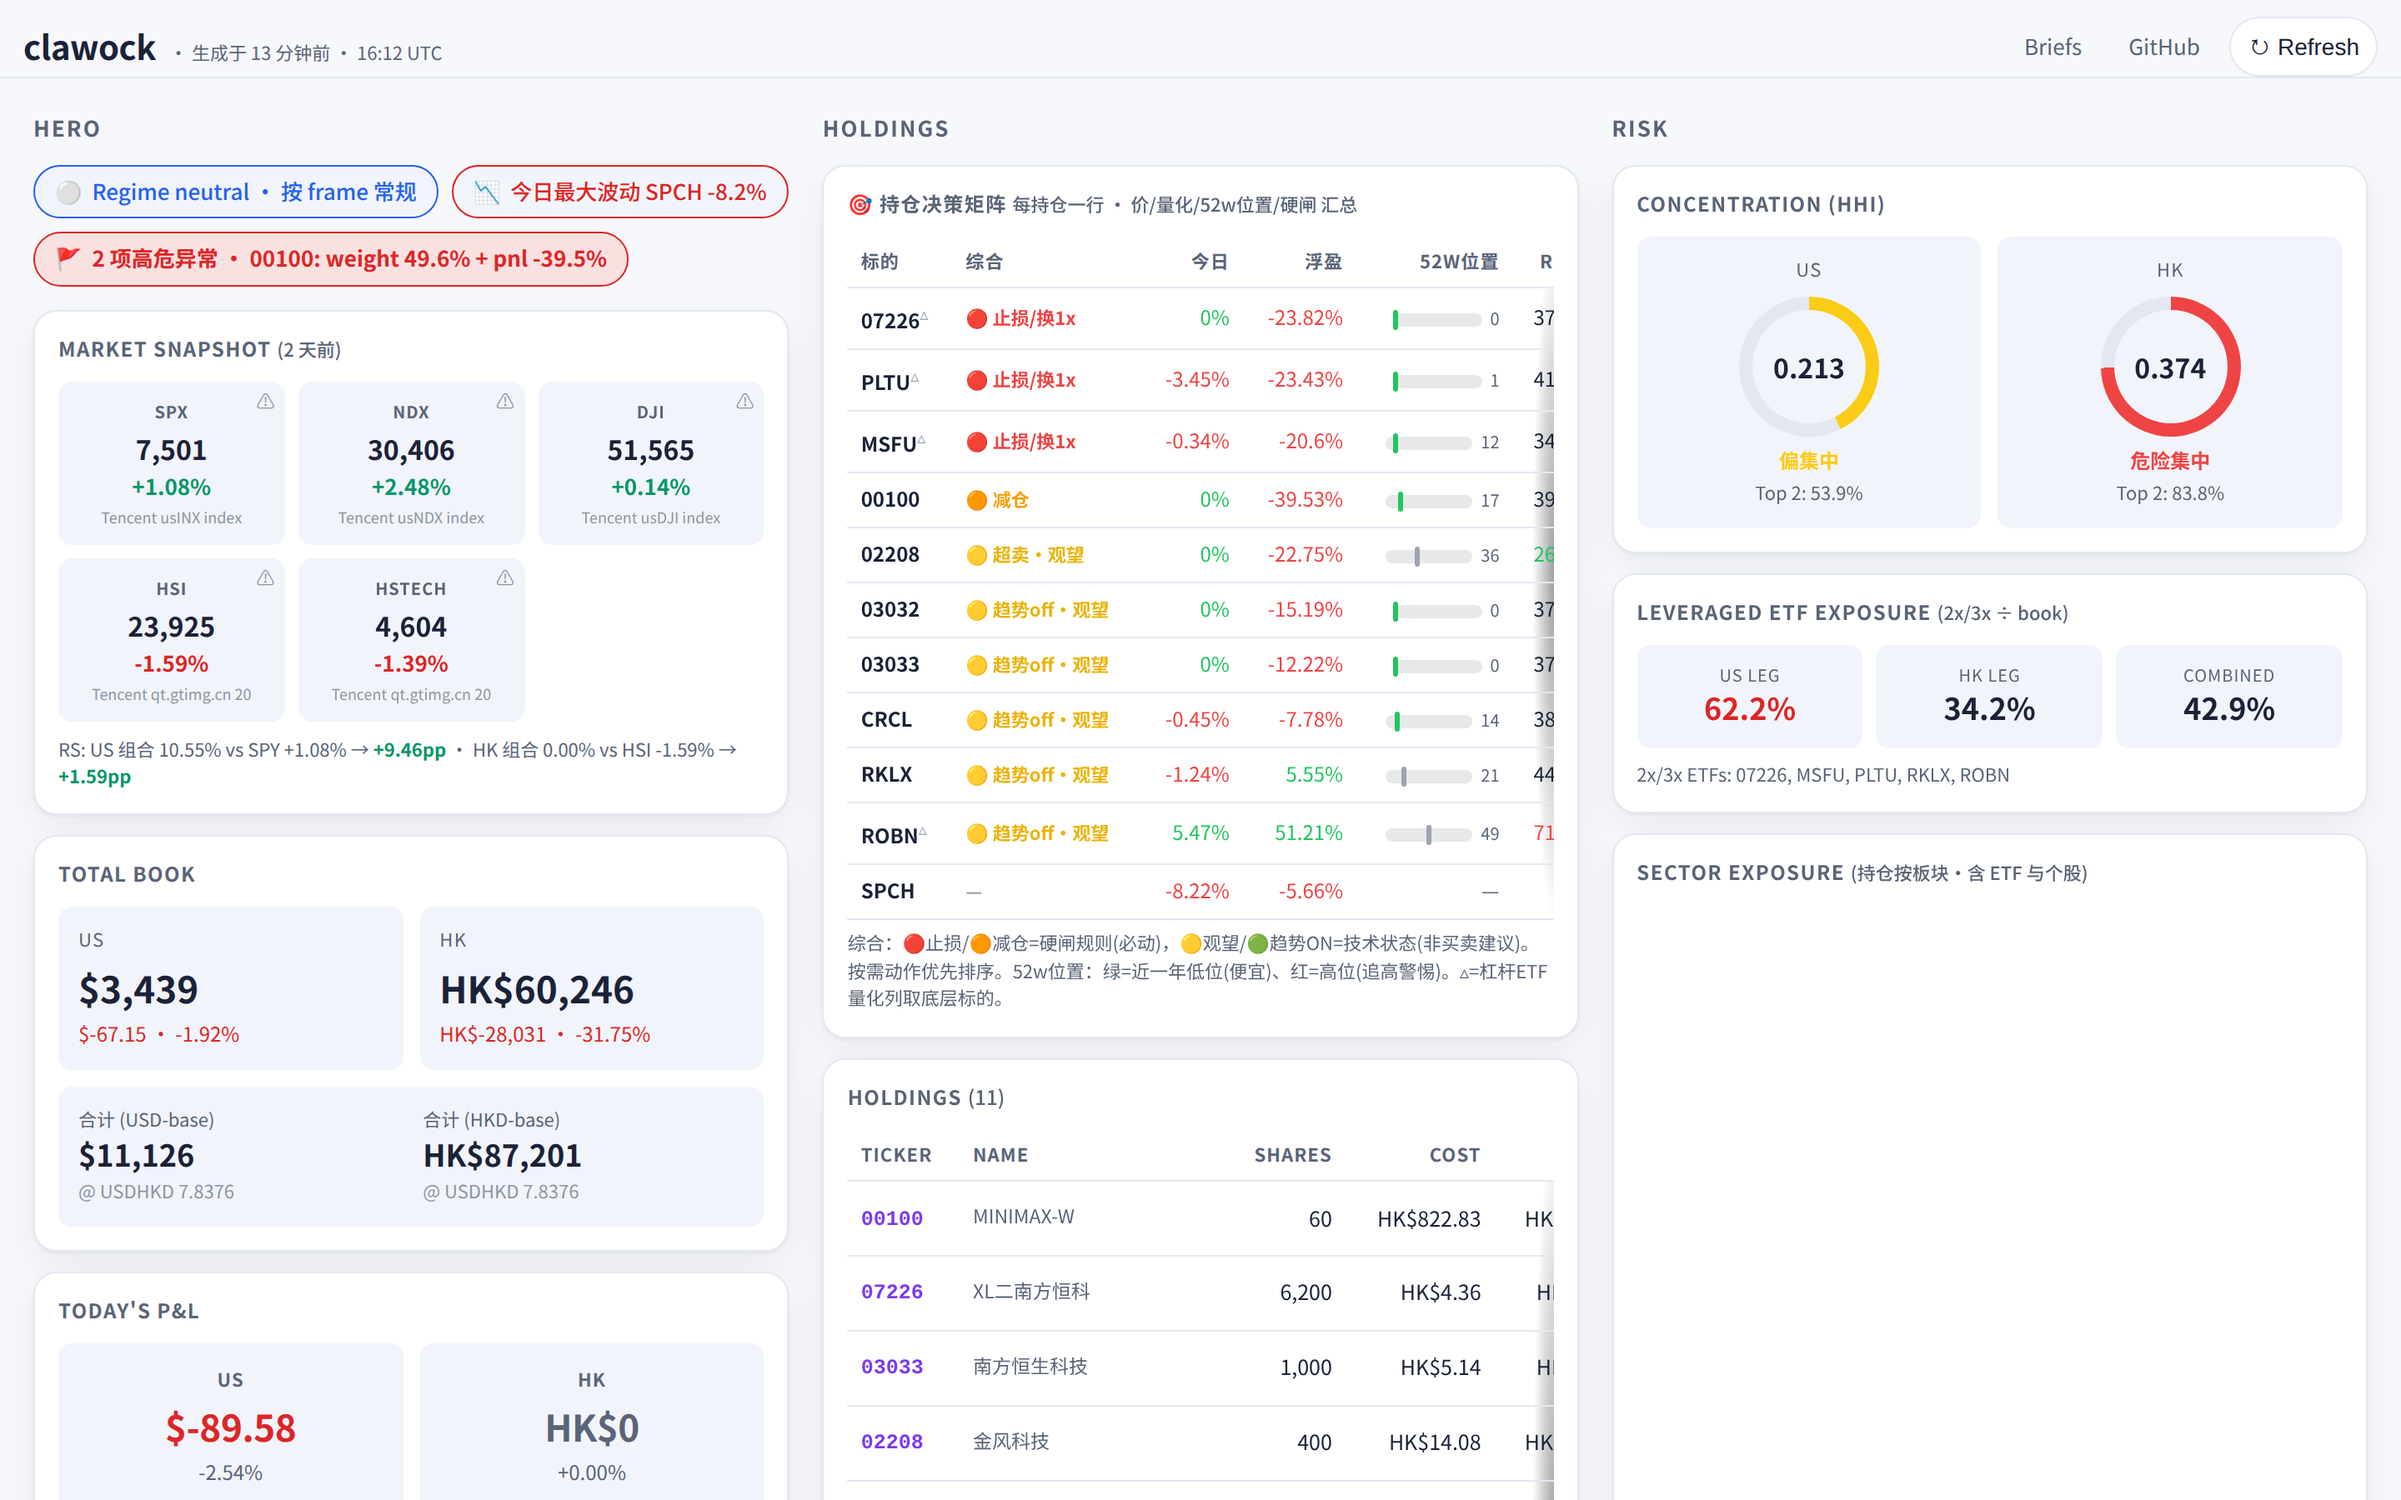
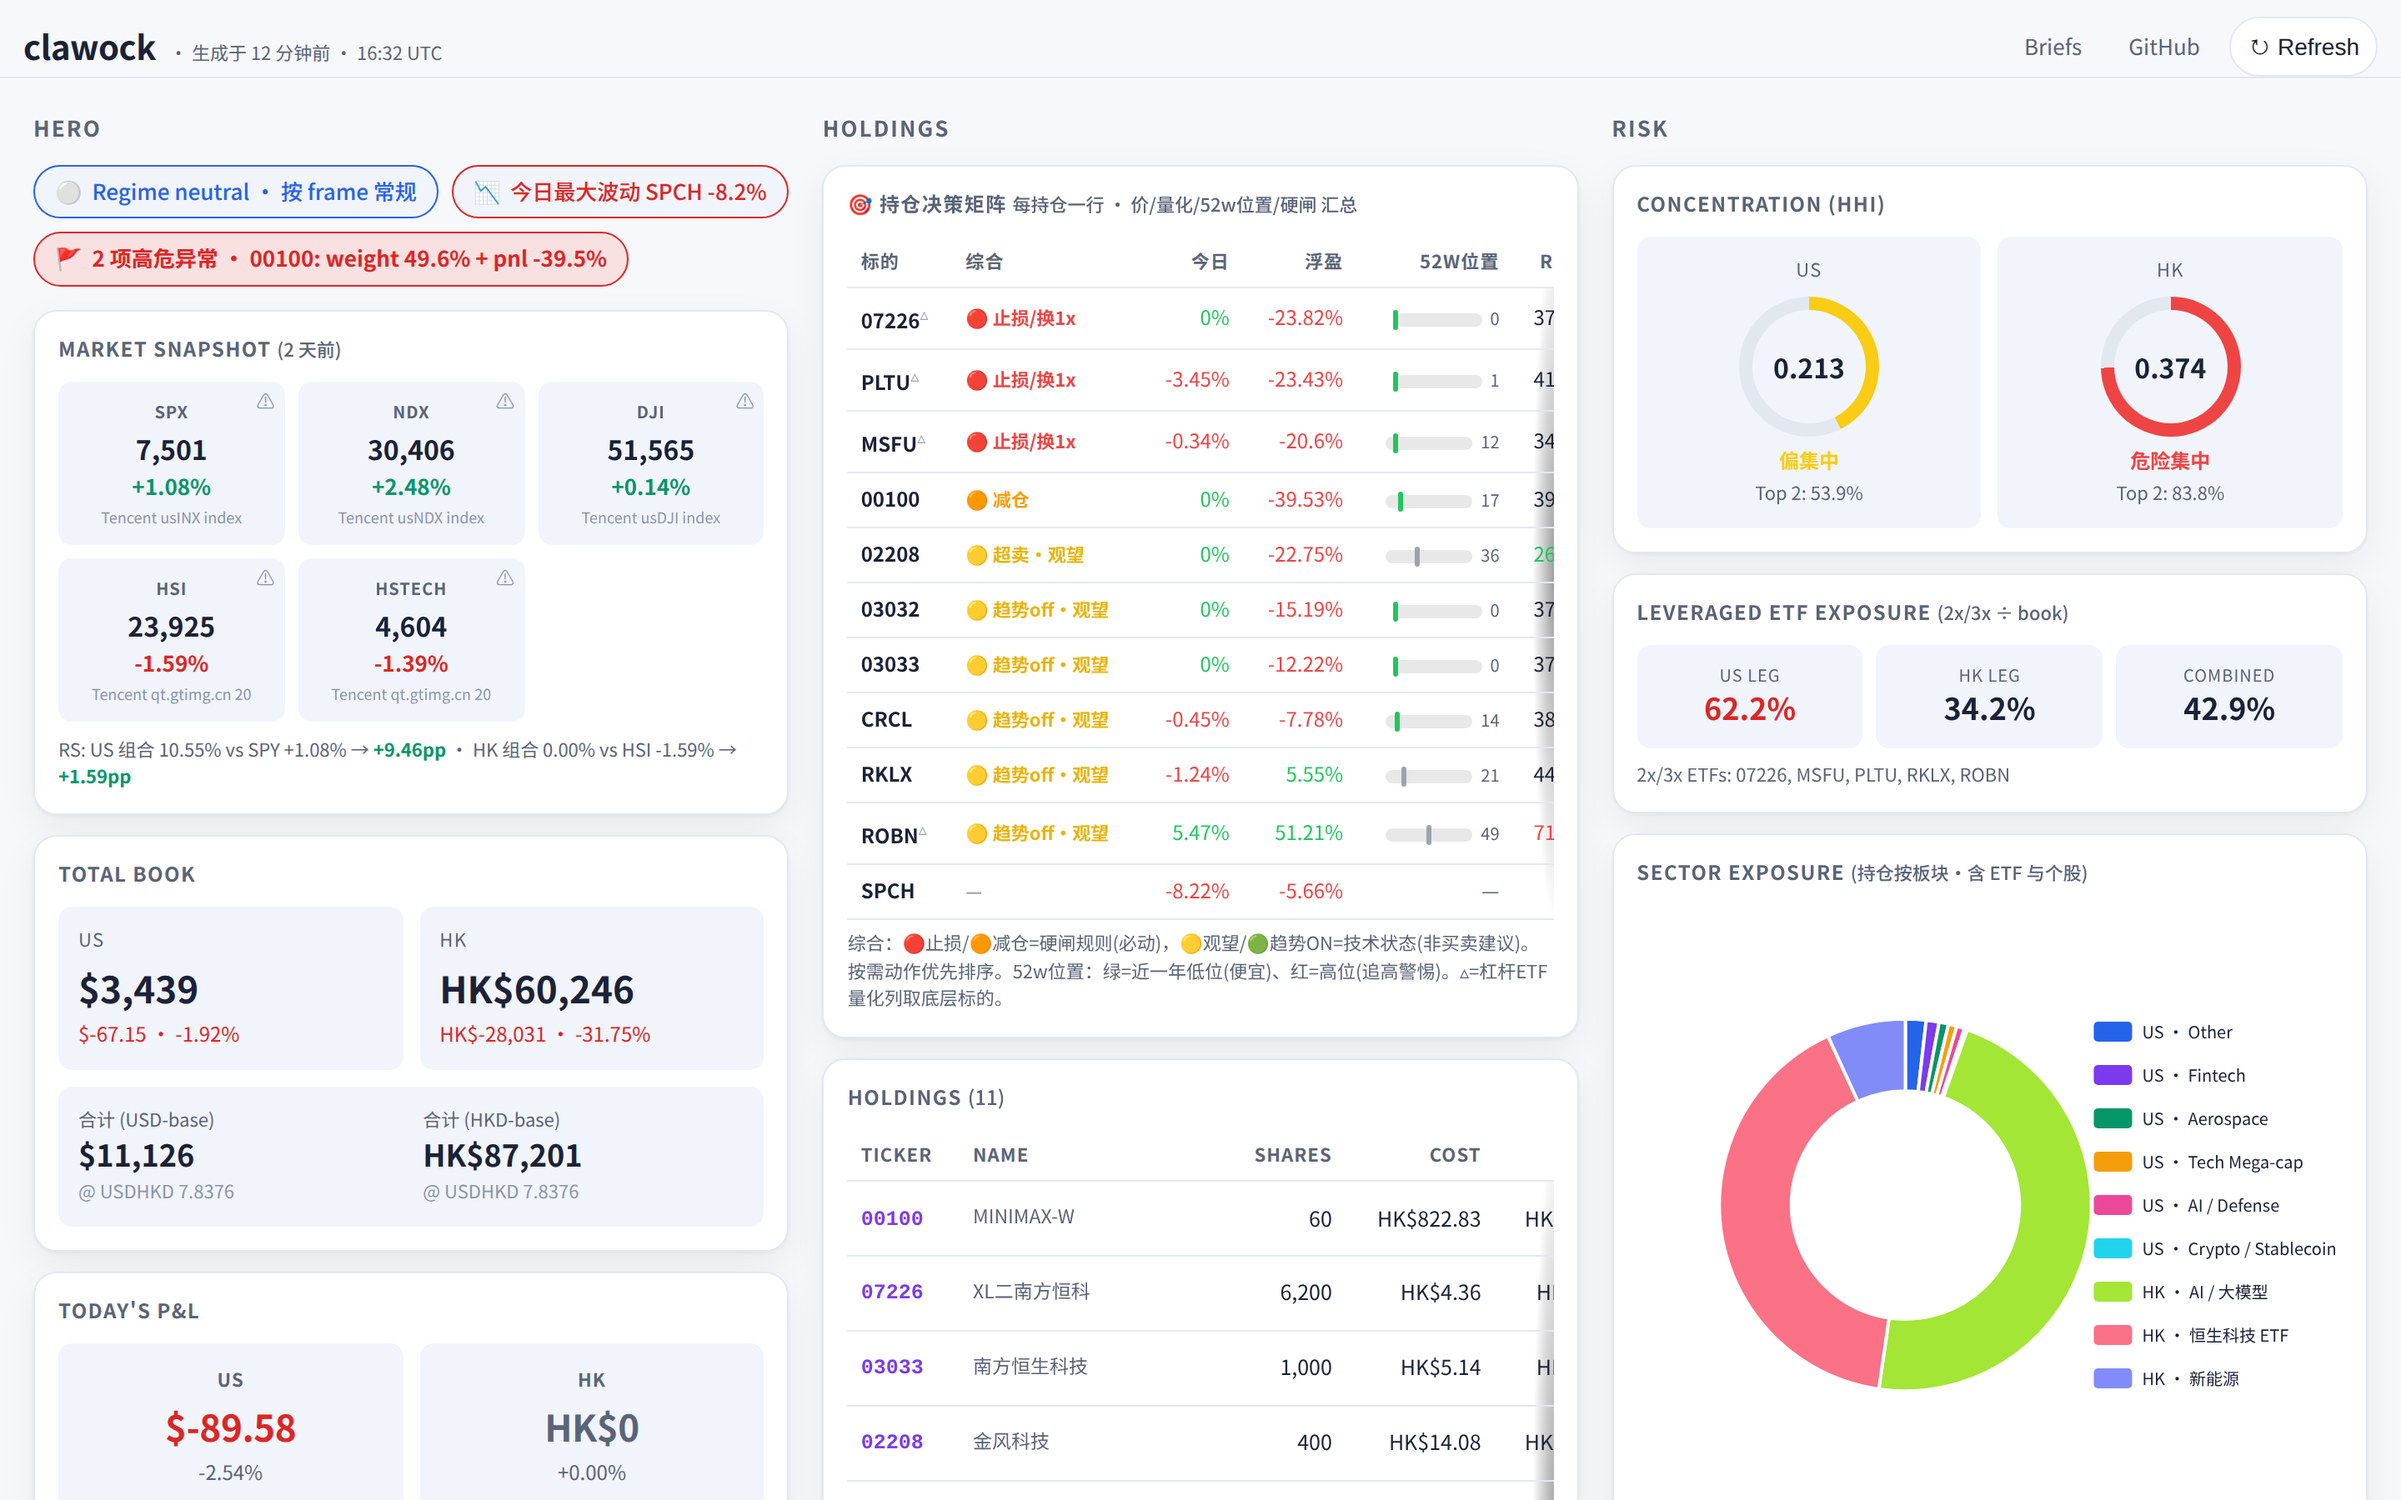
fix(dashboard): render all charts on desktop grid (was blank); chart-aware screenshots
Real bug from the lazy-chart change: at >=1024px the pager is display:contents and
ALL panels show at once as a 3-col grid, but ensureTabCharts only drew the active
(Hero) tab — so every desktop visitor saw blank Sector / Position×Conviction /
equity / shadow charts. Added ensureVisibleCharts: render every tab's charts on
desktop (all visible), stay lazy-per-tab on the mobile pager; re-runs on the
desktop media-query flip. Verified headless @1440: risk/drill/reflect canvases all
sized without navigation.

Also: shoot_dashboard.js settle() now waits for every canvas to have real size on
desktop before capture (mobile Hero has none → skip) so the README preview is never
shot mid-load — and regenerated docs/dashboard-preview.png (Sector donut now drawn).

Changed region(s): [[0.7188, 0.6844, 0.9375, 0.9333], [0.9375, 0.8089, 0.9688, 0.84]]

diff --git a/scripts/data/shoot_dashboard.js b/scripts/data/shoot_dashboard.js
@@ -20,12 +20,22 @@ const URL = process.env.URL || 'https://kcnyu.github.io/clawock/';
 const OUT_DIR = process.env.OUT_DIR || 'docs';
 
 async function settle(page) {
-  // The landing (Hero) tab has NO chart since charts lazy-load per tab (2026-06-22),
-  // so the old canvas wait would hang the full 45s timeout. Wait for the hero panel
-  // to actually populate instead, then let layout/fonts settle.
+  // 1) Wait for the data to populate the Hero panel (don't key off <canvas>: the
+  //    Hero tab has no chart since charts lazy-load — that wait would hang 45s).
   await page.waitForFunction(
     () => { const h = document.querySelector('[data-panel=hero]'); return h && h.textContent.trim().length > 200; },
     { timeout: 45000 },
+  ).catch(() => {});
+  // 2) On desktop the grid shows all panels at once → all charts draw on load; wait
+  //    for every <canvas> to have real size so none is captured blank. On mobile only
+  //    the (chart-less) Hero tab is visible, so don't wait (charts are lazy per tab).
+  await page.waitForFunction(
+    () => {
+      if (!window.matchMedia('(min-width: 1024px)').matches) return true;
+      const cs = [...document.querySelectorAll('canvas')];
+      return cs.length > 0 && cs.every(c => c.width > 50);
+    },
+    { timeout: 15000 },
   ).catch(() => {});
   await page.waitForTimeout(2500);
 }

diff --git a/index.html b/index.html
@@ -2146,6 +2146,16 @@ layout: null
     _chartTabsShown.add(t);
     paintCharts(t);
   }
+  // At ≥1024px the pager is display:contents and ALL panels show at once as a grid
+  // (not one tab at a time), so every chart is visible immediately — lazy-by-active-tab
+  // would leave the Sector/Position/equity/shadow charts blank on desktop. Render the
+  // visible set: all tabs on desktop, just the current tab on the mobile pager.
+  const DESKTOP_MQ = window.matchMedia("(min-width: 1024px)");
+  function ensureVisibleCharts() {
+    if (DESKTOP_MQ.matches) Object.keys(CHART_FNS).forEach(ensureTabCharts);
+    else ensureTabCharts(currentTab());
+  }
+  DESKTOP_MQ.addEventListener("change", () => { if (DATA) ensureVisibleCharts(); });
 
   // Instant re-theme on OS dark/light flip (phones auto-switch at sunset): CSS vars
   // flip immediately but cached ECharts instances keep the old palette until the
@@ -2554,7 +2564,7 @@ layout: null
     // Charts are lazy (see CHART_FNS): repaint tabs already shown with the fresh
     // DATA, then ensure the current tab's charts get drawn.
     _chartTabsShown.forEach(paintCharts);
-    ensureTabCharts(currentTab());
+    ensureVisibleCharts();
   }
 
   // ── A2 系统健康卡（页脚）──
